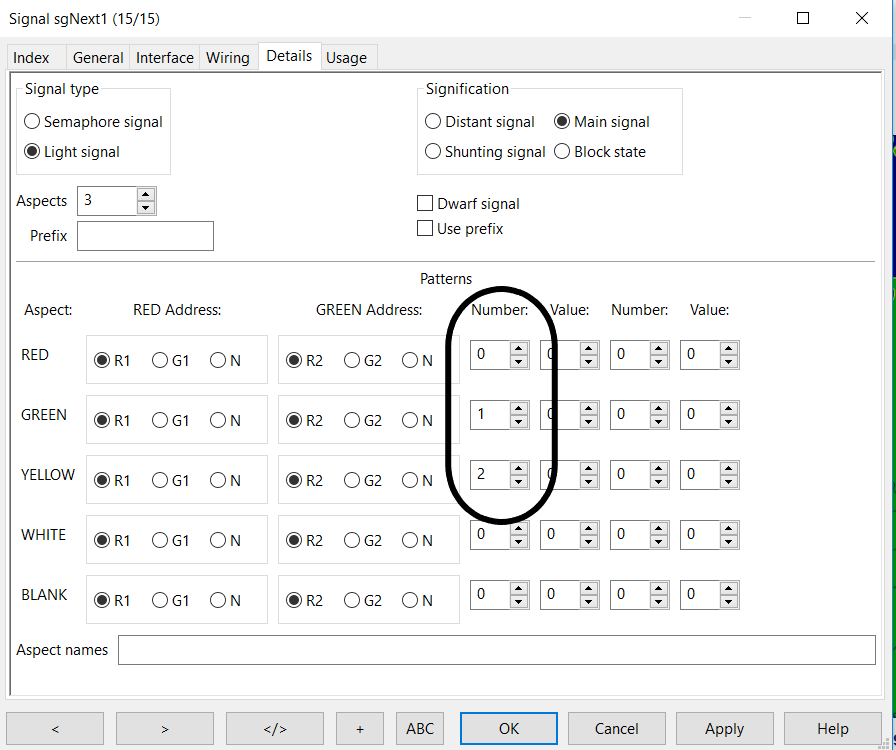
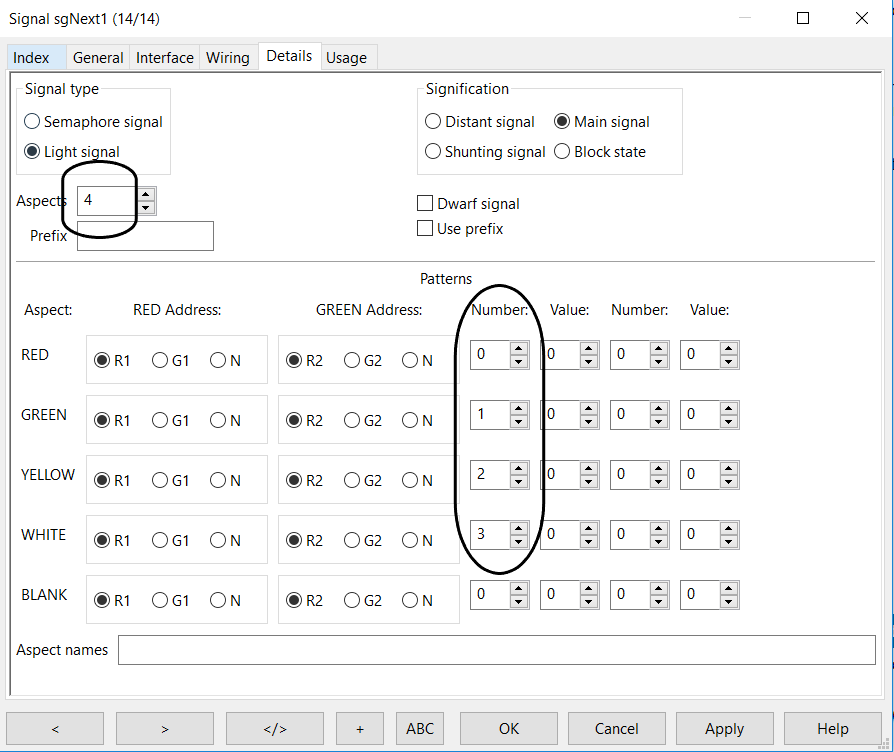
Commit

diff --git a/DCCNext/README.md b/DCCNext/README.md
@@ -14,7 +14,7 @@ De tekening van de DCCNext is niet compleet:
 
 ![Schema](./images/DCCNextSchematic.jpg) Bron: https://www.arcomora.com/arsigdec/
 
-Hierbij de aansluitingen van de DCCNext en pinnummers zoals je die op de DCCNext, de Arduino en op de Atmelchip ziet:
+Hierbij de aansluitingen van de DCCNext en pinnummers zoals je die op de DCCNext, de Arduino en op de Atmelchip ziet. Dit voorhet geval een eigen programma op de DCCNext geladen moet worden:
 
 |DCCNext|Arduino pin|Atmel    |
 |-------|-----------|---------|
@@ -62,8 +62,12 @@ Dit schema is gemaakt met Fritzing door eerst de DCCNext over te tekenen met Ink
 M.b.v. de handleiding van de [ArSigDec](https://www.globalvisuals.nl/downloads/arsigdecmanualdb.pdf) van Arcomora worden voor Nederland een standaard in de database aanwezig P-sein met en een P-sein zonder cijferbak geconfigureerd.
 
 Adres 150 P-sein met cijferbak. Adressen 150 en 151 met ieder ROOD- en GROEN-commando's.
+
+![NLseincijferbak](./images/NLseincijferbak.PNG)
+
 Adres 152 P-sein zonder cijferbak. Adressen 152 en 153 met ieder ROOD- en GROEN-commando's.
 
+![NLseincijferbak](./images/NLseinkaal.PNG)
 
 #### Upload
 
@@ -119,7 +123,7 @@ Dit is alles conform de handleiding.
 
 ## RocRail configuratie
 
-De hierboven bekeken ROOD- en GROEN-commando's moeten nu door een juiste configuratie uit RocRail komen. Op de site van Arcomora wordt verwezen naar een [video](https://www.youtube.com/watch?v=dic4zqEXa8o) waarin wordt uitgelegd dat bij de DCCNext de adresseermethode 'Linear' moet worden gekozen.
+De hierboven bekeken ROOD- en GROEN-commando's moeten nu door een juiste configuratie uit RocRail komen. Op de site van Arcomora wordt verwezen naar een [video](https://www.youtube.com/watch?v=dic4zqEXa8o) waarin wordt uitgelegd dat bij de DCCNext de adresseermethode 'Linear' moet worden gekozen. De wijzigingen t.o.v. de standaard instellingen zijn omcirceld.
 
 Maak een sein in RocRail met b.v. de naam sgNext1:
 
@@ -129,11 +133,15 @@ Zet in het tabblad Interface het poortadres op 150 (PADA) en Control op Linear:
 
 ![sgNext1TABInterface](./images/sgNext1TABInterface.PNG)
 
+Indien de gebruiker persé met MADA wil werken (wat trouwens voor de DCCNext niets uitmaakt):
+
+![sgNext1TABInterface](./images/sgNext1TABInterfaceMADA.PNG)
+
 Zet in het tabblad Details de juiste volgnummers voor RED 0, voor GREEN 1 en voor YELLOW 2:
 
 ![sgNext1TABDetails](./images/sgNext1TABDetails.PNG)
 
-* Klik steeds op het sein sgNext1 in de RocRail interface dan gaat het aspect ROOD, GEEL en GROEN om beurten branden (met netjes een overgang van ROOD naar GROEN via een korte tussenstand GEEL). Een andere mogelijkheid is om op het sein de rechtermuis te klikken; je kunt dan meteen het gewenste aspect kiezen.
+* Klik steeds op het sein sgNext1 in de RocRail interface dan gaat het aspect ROOD, GEEL, GROEN en GEEL+WIT om beurten branden (met netjes een overgang van ROOD naar GROEN via een korte tussenstand GEEL). Een andere mogelijkheid is om op het sein de rechtermuis te klikken; je kunt dan meteen het gewenste aspect kiezen.
 * Bekijk de test DCCNext en de logging in de RocRail interface. Als alles correct is ingesteld zie je dat RocRail dezelfde commando's stuurt als hiervoor met de hand is uitgeprobeerd.
 
 
@@ -201,7 +209,12 @@ Assembled:
 With the [ArSigDec](https://www.globalvisuals.nl/downloads/arsigdecmanualdb.pdf) manual of  Arcomora a Dutch P signal with speed indicator and a P signal without speed indicator were configured.
 
 Adres 150 P signal with speed indicator. Adresses 150 and 151 each possible with a RED and GREEN command.
+
+![NLseincijferbak](./images/NLseincijferbak.PNG)
+
 Adres 152 P signal without speed indicator. Adresses 152 and 153 each possible with a RED and GREEN command.
+
+![NLseincijferbak](./images/NLseinkaal.PNG)
 
 
 #### Upload
@@ -258,7 +271,7 @@ As mentioned in the manual.
 
 ## RocRail configuration
 
-The RED and GREEN-commands must now come from RocRail after correct configuration. In the manual of ArSigDec is referred to a [video](https://www.youtube.com/watch?v=dic4zqEXa8o) explaining to use 'Linear' when connecting DCCNext to RocRail.
+The RED and GREEN-commands must now come from RocRail after correct configuration. In the manual of ArSigDec is referred to a [video](https://www.youtube.com/watch?v=dic4zqEXa8o) explaining to use 'Linear' when connecting DCCNext to RocRail.Changes to the default settings are indicated with a circle.
 
 Create a signal sgNext1 in RocRail:
 
@@ -268,9 +281,13 @@ In the tab Interface set the port adress to 150 (PADA) and Control on Linear:
 
 ![sgNext1TABInterface](./images/sgNext1TABInterface.PNG)
 
+If the user wants to use MADA (which is of no influence on the DCCNext):
+
+![sgNext1TABInterface](./images/sgNext1TABInterfaceMADA.PNG)
+
 In the tab Details give the following numbers to RED 0, to GREEN 1 and to YELLOW 2:
 
 ![sgNext1TABDetails](./images/sgNext1TABDetails.PNG)
 
-* Click on the signal sgNext1 in the RocRail interface several times. The signal we go through the aspects RED, YELLOW and GREEN (with a short YELLOW when going from RED to GREEN directly). Another possibility is to right click the signal and chose the aspect.
+* Click on the signal sgNext1 in the RocRail interface several times. The signal we go through the aspects RED, YELLOW, GREEN and WHITE+YELLOW (with a short YELLOW when going from RED to GREEN directly). Another possibility is to right click the signal and chose the aspect.
 * Look at the test DCCNext and the logging in the RocRail interface. If set correctly you will see RocRail sending the same commands as you did manually.

diff --git a/ByorDIYSignaldecoders/README.md b/ByorDIYSignaldecoders/README.md
@@ -3,7 +3,7 @@
 [Navigate to English version](#English)
 
 ## UNDER CONSTRUCTION
-In deze pagina's wordt beschreven hoe je zelf een signaal- en/of wisseldecoder kan bouwen, maar er worden ook een aantal commerciële produkten opgesomd.
+In deze pagina's worden worden een aantal commerciële produkten opgesomd en beschreven hoe je zelf een signaal- en/of wisseldecoder kan bouwen.
 
 
 ## Commerciële DCC schakeldecoders
@@ -38,6 +38,26 @@ In deze pagina's wordt beschreven hoe je zelf een signaal- en/of wisseldecoder k
 
 * [Bicknell](https://github.com/bicknell/rpi-dcc-decoder) op basis van een Pi.
 
+## Overzicht schakeldecoders
+
+Na een stuk literatuuronderzoek en onderzoek in een werkende installatie is onderstaand overzicht samengesteld. Zodra meer hardware beschikbaar komt zal de lijst worden aangevuld.
+
+|Decoder |BuyDIY|Configuratie|NLsein|Wisselspoel|Fading|Servo|Open source|Prijs/poort|
+|--------|------|------------|------|-----------|------|-----|-----------|-----------|
+|DR4018  |Buy   |CV          |❌    |✔        |      |❌   |❌        |&euro; 2   |
+|DCCNext |Kit   |UI ✔      |✔    |❌        |✔    |✔   |❌        |&euro; 1   |
+|OpenDCC1|DIY   |            |      |           |      |     |✔        |&euro; 0.5 |
+|OpenDCC2|Kit   |            |      |           |      |     |✔        |&euro; 3   |
+
+* BuyDIY: wordt de decoder kant en klaar geleverd (Buy), als zelfbouwkit of moet je alles inclusief printplaat samenstellen (DIY)?
+* Configuratie: kan middels CV waarden zijn of met een mooie User Interface
+* NLSein betekent dat bij de overgang van groen naar rood kort een geel aspect oplicht
+* Wisselspoel: kan een wisselspoel direct zonder extra elektronica worden aangestuurd?
+* Fading: kan het oplichten en doven van een licht vertraagd verlopen?
+* Servo: kunnen servo's voor b.v. wissels direct worden aangestuurd?
+* Open source: is de code van de microcontroller beschikbaar?
+
+
 ### Oplossingsrichtingen processor
 
 * DIY PCM met een processor uit de Atmel familie
@@ -52,7 +72,7 @@ In deze pagina's wordt beschreven hoe je zelf een signaal- en/of wisseldecoder k
 * Rechtstreeks uit controller
  * met serieweerstand
  * pas op maximale stroom door controller
-* Buffer b.v. UNL2003
+* Buffer b.v. UNL2003 (7 drivers) of ULN2803 (8 drivers)
   * hogere spanning en stroom b.v. voor wissels
   * maar 7 i.p.v. 8 buffers in één chip
 * MCP23017 [link](https://tronixstuff.com/2011/08/26/arduino-mcp23017-tutorial/)

diff --git a/ArduinoCourse/ArduinoCoursePart2/README.md b/ArduinoCourse/ArduinoCoursePart2/README.md
@@ -7,7 +7,8 @@ In this course a universal DCC decoder for signals and switches is build step by
 * [Brightness without delay function](#10_BrightnessWithoutDelay)
 * [Brightness without delay 4 LEDs](#11_BrightnessWithoutDelay4LEDs)
 * [Fading without delay](#12_FadingWithoutDelay)
-* [Fading without delay 4 LEDs and different fading starts](#13_FadingWithoutDelay4LEDs)
+* [Fading without delay in micro secons](#13_FadingWithoutDelayMicro)
+* [Fading without delay 4 LEDs and different fading starts](#14_FadingWithoutDelay4LEDs)
 * Fading using hardware PWM output: UNDER CONSTRUCTION (14)
 * Fading without delay 4 LEDs and blinking: UNDER CONSTRUCTION (15)
 * Four aspect signal with fading: UNDER CONSTRUCTION (16)
@@ -258,13 +259,15 @@ void loop() {
 }
 ```
 
-On observing the fading of the LEDs it is obvious that the incremental brightness steps are not garnular enough. The human eye can see the 20 steps in which we divide the intensity of the LED. In another [example](https://arduino.stackexchange.com/questions/19700/arduino-non-blocking-software-pwm-led-fader-not-working) the granularity is much smaller.
+## 13_FadingWithoutDelayMicro
 
-So the next step will be to divide the 20 msec into about 255 steps so in 80 &mu;s steps.
+On observing the fading of the LEDs in the previous example it is obvious that the incremental brightness steps are not garnular enough. The human eye can see the 20 steps in which we divide the increment in intensity of the LED. In another [example](https://arduino.stackexchange.com/questions/19700/arduino-non-blocking-software-pwm-led-fader-not-working) the granularity is much smaller. So the next step will be to divide the 20 msec into X steps of Y &mu;s each. We will increase X until it is not visible by the human eye.
+
+Also we will set an output pin to 1 when entering the big piece of code setting and clearing the LED and to 0 when we are done. In this way we hope to see how much processing time is spend in that code using an oscilloscope.
 
 [TOP](#English)
 
-## 13_FadingWithoutDelay4LEDs
+## 14_FadingWithoutDelay4LEDs
 
 Now we extend as previously done the example over 4 LEDs.
 
@@ -329,7 +332,7 @@ void SignalControl_Blink() {
 }
 ```
 
-**13_FadingWithoutDelay4LEDs.ino**
+**14_FadingWithoutDelay4LEDs.ino**
 
 ```c++
 void setup() {
